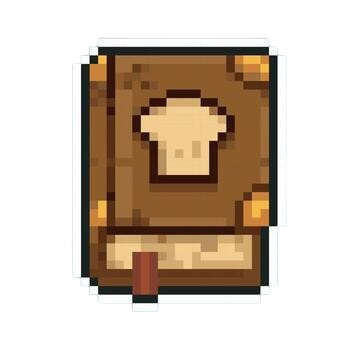
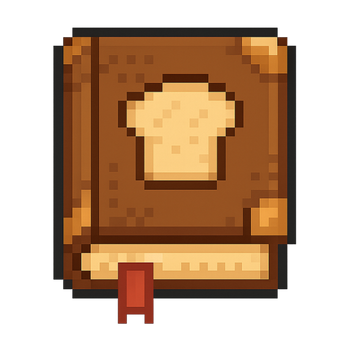
Added art for recipebook, opens on mouse button clip

diff --git a/Assets/Scripts/Recipebook.cs b/Assets/Scripts/Recipebook.cs
@@ -1,0 +1,52 @@
+using UnityEngine;
+
+public class Recipebook : MonoBehaviour
+{
+    public Sprite openRecipeBookSprite;
+    public Sprite closedRecipeBookSprite;
+    private bool bookIsOpen = false;
+    private SpriteRenderer spriteRenderer;
+
+    // Start is called once before the first execution of Update after the MonoBehaviour is created
+    void Start()
+    {
+        
+    }
+
+    // Update is called once per frame
+    void Update()
+    {
+        
+    }
+
+    void Awake()
+    {
+        spriteRenderer = GetComponent<SpriteRenderer>();
+    }
+    
+    // when we click on the recipe book it changes art to open book and our recipe shows
+    private void ChangeToOpenBookSprite()
+    {
+        spriteRenderer.sprite = openRecipeBookSprite;
+        bookIsOpen = true;
+    }
+
+    private void ChangeToClosedRecipeBookSprite()
+    {
+        spriteRenderer.sprite = closedRecipeBookSprite;
+        bookIsOpen = false;
+    }
+    
+    //  Change to only open when on the recipe book
+    public void MouseClickDetected()
+    {
+        if (!bookIsOpen)
+        {
+            ChangeToOpenBookSprite();
+        }
+        else
+        {
+            ChangeToClosedRecipeBookSprite();
+        }
+    }
+}

diff --git a/Assets/Scripts/MouseDetection.cs b/Assets/Scripts/MouseDetection.cs
@@ -1,0 +1,23 @@
+using UnityEngine;
+using UnityEngine.InputSystem;
+
+public class MouseDetection : MonoBehaviour
+{
+    public Recipebook Recipebook;
+    void Update()
+    {
+        if (Mouse.current == null)
+            return;
+        if (Mouse.current.leftButton.wasPressedThisFrame)
+        {
+            Recipebook.MouseClickDetected();
+        }
+    }
+    private Vector3 GetMouseWorldPosition()
+    {
+        Vector2 mouseScreen = Mouse.current.position.ReadValue();
+        Vector3 mouseWorld = Camera.main.ScreenToWorldPoint(mouseScreen);
+        mouseWorld.z = 0f;
+        return mouseWorld;
+    }
+}

diff --git a/Assets/Scripts/Game.cs b/Assets/Scripts/Game.cs
@@ -2,7 +2,6 @@ using UnityEngine;
 
 public class Game : MonoBehaviour
 {
-    public FoodPlacer FoodPlacer;
     // Start is called once before the first execution of Update after the MonoBehaviour is created
     void Start()
     {
